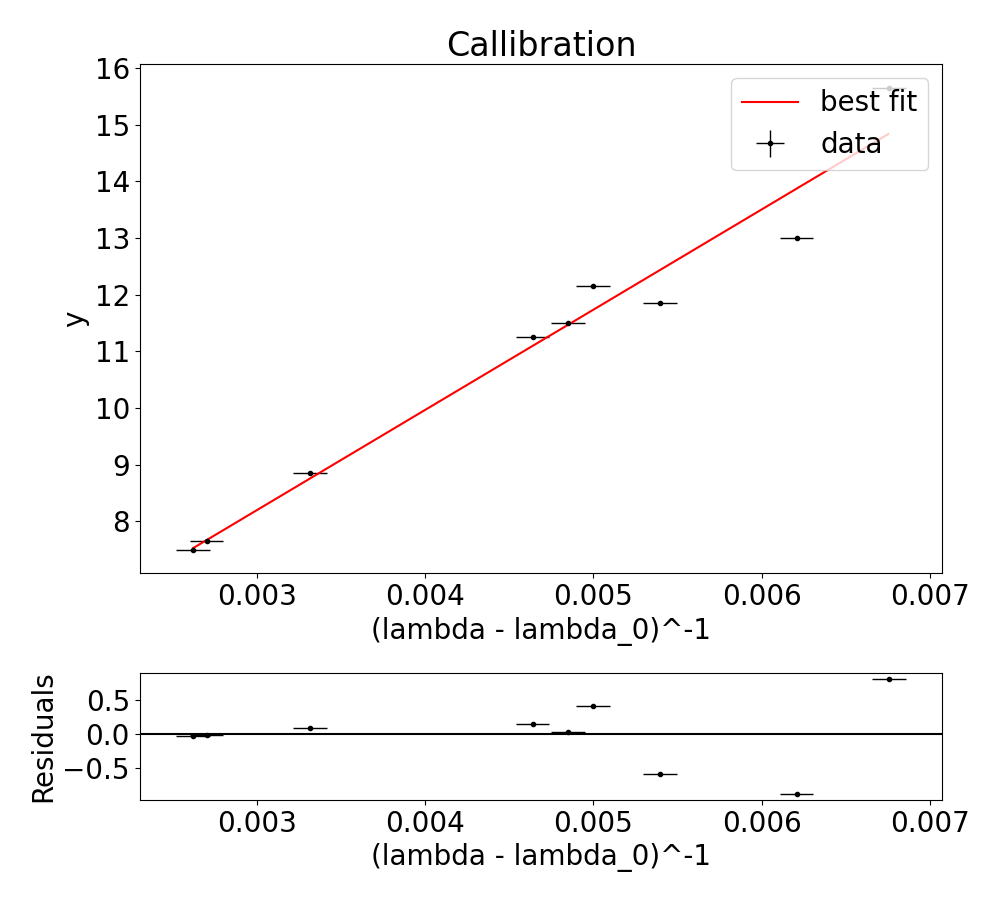
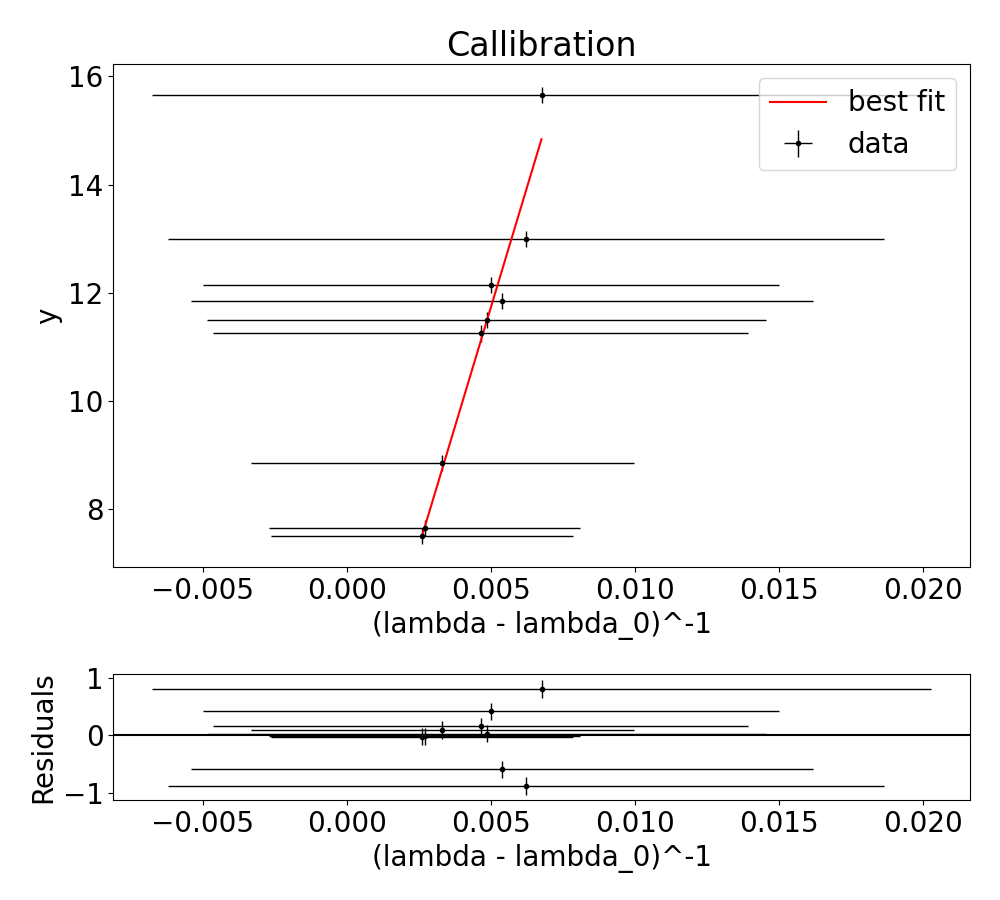
new

diff --git a/calibration copy.py b/calibration copy.py
@@ -14,7 +14,7 @@ title = "Callibration"
 lambda_0 = 286.0
 lambda_0err = 2.0
 wavelength = [447.1, 471.3, 492.2, 501.6, 587.6, 667.8, 434.0, 486.1, 656.3]
-wav_err = [0.0000022, 0.0000024, 0.0000025, 0.000003, 0.000003, 0.000003, 0.0006, 0.0000024, 0.000007 ]
+wav_err = [0.0000022, 0.0000024, 0.0000025, 0.000003, 0.000003, 0.000003, 0.0006, 0.0000024, 0.000007]
 
 
 y = np.array([13.0, 11.85, 11.5, 11.25, 8.85, 7.5, 15.65, 12.15, 7.65])
@@ -25,18 +25,21 @@ yerr = np.array([0.15] * len(y))
 xerr = [math.sqrt(wav_err[i]**2 + lambda_0err**2) / abs(wavelength[i] - lambda_0) for i in range(len(wavelength))]
 
 
-popt, puncert = bb.plot_fit(linear, x, y, xerr, yerr, init_guess=init_guess, font_size=font_size, title=title,
+(m, b), (merr, berr) = bb.plot_fit(linear, x, y, xerr, yerr, init_guess=init_guess, font_size=font_size, title=title,
             xlabel=xlabel, ylabel=ylabel)
 
-m, b = popt
-merr, berr = puncert
 
 
 unknown_y = [7.0, 8.35, 8.65, 9.5, 10.65, 12.85, 14.15, 15.5, 16]
 unknown_y_err = [0.15] * len(unknown_y)
 
 unknown_lambda = [m / (y - b) + lambda_0 for y in unknown_y]
-unknown_lambda_err = [math.sqrt((merr / (y - b))**2 + (m * yerr[i] / (y - b)**2)**2 + (m * berr / (y - b))**2 + lambda_0err**2) for i, y in enumerate(unknown_y)]
+
+denom = [y - b for y in unknown_y]
+denom_err = [math.sqrt(yerr**2 + berr**2) for yerr in unknown_y_err]
+
+first_term_err = [m / denom[i] * math.sqrt((denom_err[i] / denom[i])**2 + (merr / m)**2) for i in range(len(denom))]
+unknown_lambda_err = [math.sqrt(first_term_err[i]**2 + merr**2) for i in range(len(first_term_err))]
 
 for i, l in enumerate(unknown_lambda):
     print(f"lambda_{i + 1} = {l} +/- {unknown_lambda_err[i]}")

diff --git a/rydberg_constant.py b/rydberg_constant.py
@@ -1,0 +1,31 @@
+# 1 / lambda = R_H (1/2^2 - 1/n^2)
+# R_H = 1 / lambda (1/2^2 - 1/n^2)
+import math
+
+h = 6.626070040 * 10**-34 # Js
+c =  299792458            # m/s       
+ev = 1.60218 * 10**-19    # J/eV
+
+
+wavelength = [434.0 * 10**-9, 486.1 * 10**-9, 656.3 * 10**-9]
+wav_err = [0.0006 * 10**-9, 0.0000024 * 10**-9, 0.000007 * 10**-9]
+
+n = [5, 4, 3]
+
+R_H = [1.0 / (wavelength[i] * (1/2**2 - 1/n[i]**2)) for i in range(len(wavelength))]
+R_H_err = [R_H[i] * math.sqrt((wav_err[i] / wavelength[i])**2) for i in range(len(wavelength))]
+
+weights = [1 / err**2 for err in R_H_err]
+weighted_avg = sum([R_H[i] * weights[i] for i in range(len(R_H))]) / sum(weights)
+weighted_avg_err = 1 / math.sqrt(sum(weights))
+
+for i, r in enumerate(R_H):
+    print(f"R_H_{i + 1} = {r}  +/- {R_H_err[i]} 1/m")
+
+print(f"R_H_wav = {weighted_avg} +/- {weighted_avg_err} 1/m")
+
+R_EH = weighted_avg * h * c / ev
+R_EH_err = R_EH * weighted_avg_err / weighted_avg
+
+
+print(f"R_EH = {R_EH} +- {R_EH_err} eV")

diff --git a/spectral_separation.py b/spectral_separation.py
@@ -1,0 +1,4 @@
+s1 = 8.85 * 10 ** -9
+s2 = 8.65 * 10 ** -9
+
+diff = s1 - s2  
